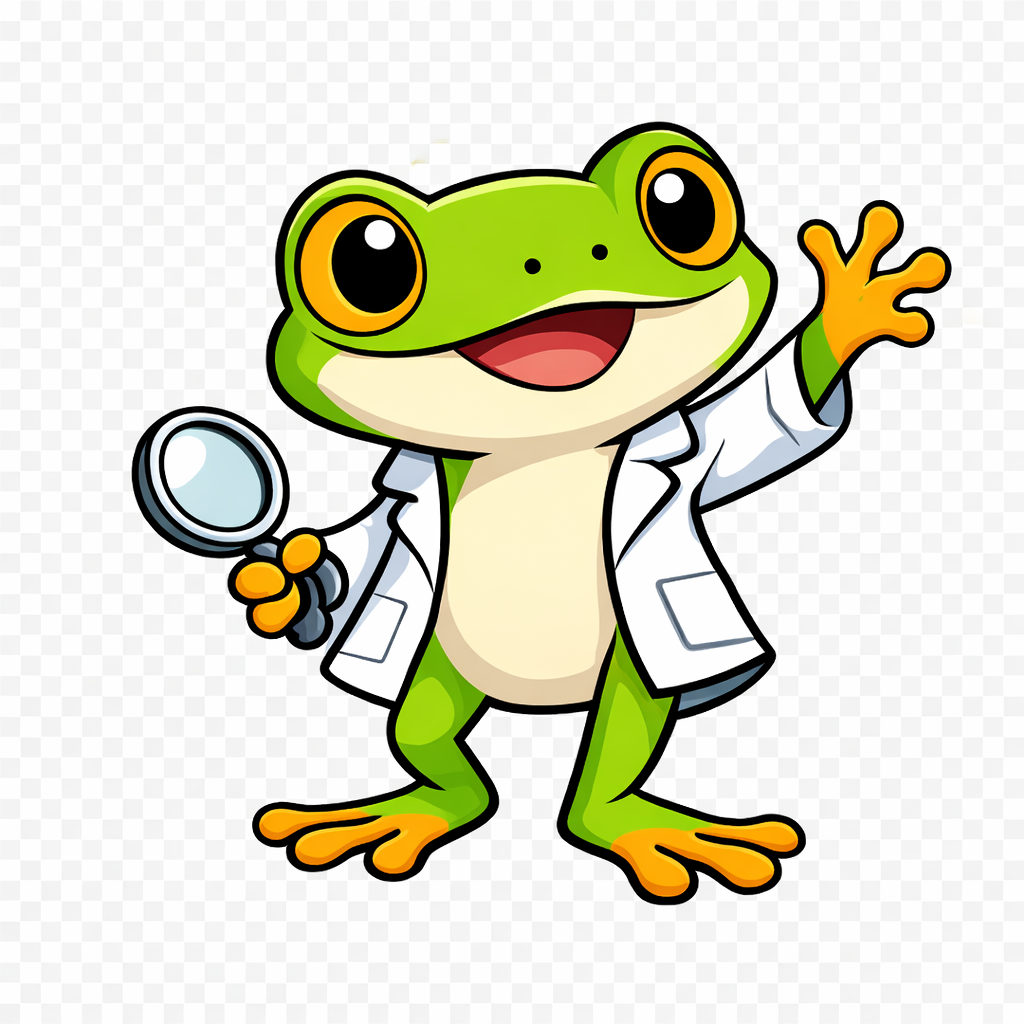
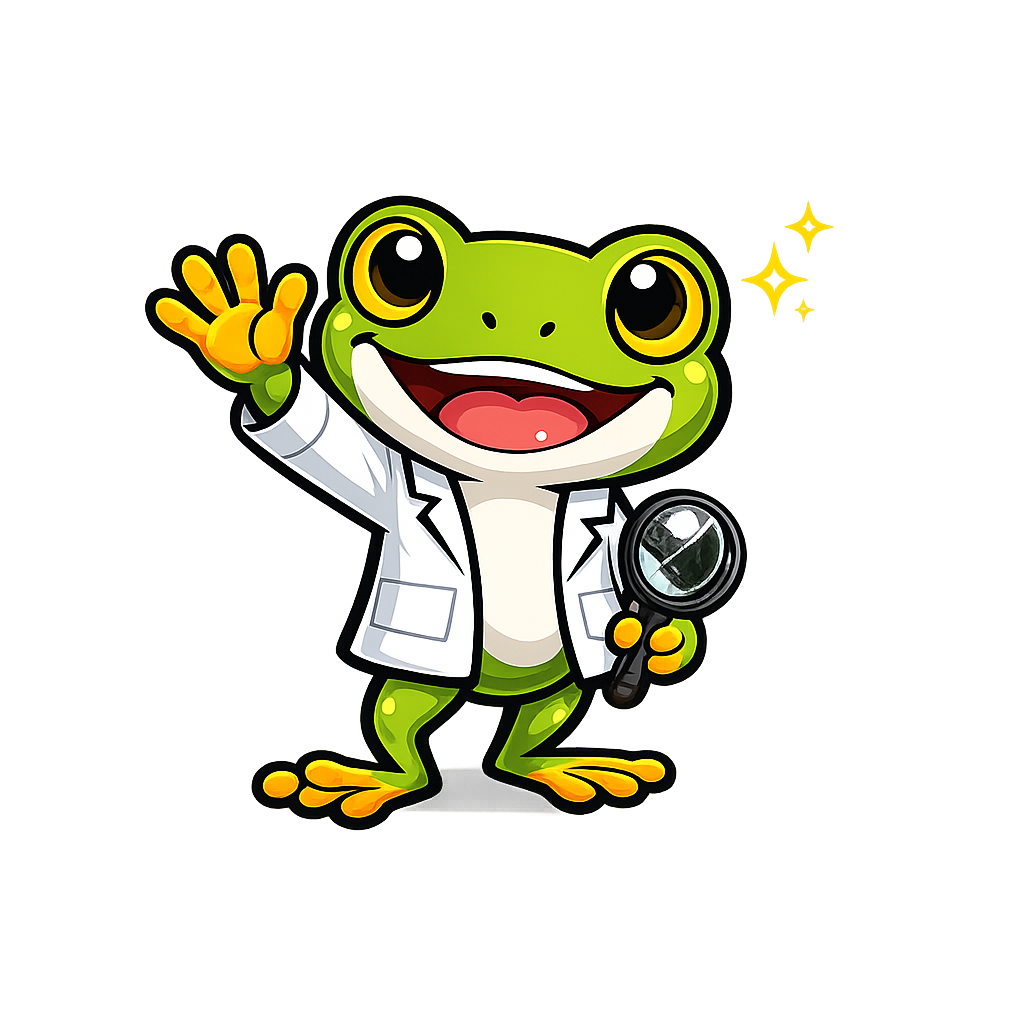
mascot image cleanup

diff --git a/docs/css/mascot.css b/docs/css/mascot.css
@@ -8,7 +8,7 @@
   --mascot-secondary: #f57c00;   /* warm orange   */
   --mascot-bg:        #e8f5e9;   /* light green   */
   --mascot-border:    #43a047;   /* medium green  */
-  --mascot-size: 60px;
+  --mascot-size: 90px;
 }
 
 /* ---- Shared base for all mascot admonitions ---- */
@@ -18,12 +18,14 @@
 .md-typeset .admonition.mascot-warning,
 .md-typeset .admonition.mascot-celebration,
 .md-typeset .admonition.mascot-encourage,
+.md-typeset .admonition.mascot-neutral,
 .md-typeset details.mascot-welcome,
 .md-typeset details.mascot-thinking,
 .md-typeset details.mascot-tip,
 .md-typeset details.mascot-warning,
 .md-typeset details.mascot-celebration,
-.md-typeset details.mascot-encourage {
+.md-typeset details.mascot-encourage,
+.md-typeset details.mascot-neutral {
   font-size: 0.95rem;
 }
 
@@ -38,16 +40,6 @@
   background-color: var(--mascot-primary);
   color: white;
 }
-.md-typeset .mascot-welcome > .admonition-title::before,
-.md-typeset .mascot-welcome > summary::before {
-  content: "";
-  background: url('../img/mascot/welcome.png') center/contain no-repeat;
-  width: 1.2em;
-  height: 1.2em;
-  display: inline-block;
-  vertical-align: middle;
-  margin-right: 0.4em;
-}
 
 /* ---- Thinking (key concepts) — warm orange ---- */
 .md-typeset .admonition.mascot-thinking,
@@ -59,16 +51,6 @@
 .md-typeset .mascot-thinking > summary {
   background-color: var(--mascot-secondary);
   color: white;
-}
-.md-typeset .mascot-thinking > .admonition-title::before,
-.md-typeset .mascot-thinking > summary::before {
-  content: "";
-  background: url('../img/mascot/thinking.png') center/contain no-repeat;
-  width: 1.2em;
-  height: 1.2em;
-  display: inline-block;
-  vertical-align: middle;
-  margin-right: 0.4em;
 }
 
 /* ---- Tip (hints) — teal ---- */
@@ -82,16 +64,6 @@
   background-color: #00897b;
   color: white;
 }
-.md-typeset .mascot-tip > .admonition-title::before,
-.md-typeset .mascot-tip > summary::before {
-  content: "";
-  background: url('../img/mascot/tip.png') center/contain no-repeat;
-  width: 1.2em;
-  height: 1.2em;
-  display: inline-block;
-  vertical-align: middle;
-  margin-right: 0.4em;
-}
 
 /* ---- Warning (common mistakes) — red ---- */
 .md-typeset .admonition.mascot-warning,
@@ -103,16 +75,6 @@
 .md-typeset .mascot-warning > summary {
   background-color: #c62828;
   color: white;
-}
-.md-typeset .mascot-warning > .admonition-title::before,
-.md-typeset .mascot-warning > summary::before {
-  content: "";
-  background: url('../img/mascot/warning.png') center/contain no-repeat;
-  width: 1.2em;
-  height: 1.2em;
-  display: inline-block;
-  vertical-align: middle;
-  margin-right: 0.4em;
 }
 
 /* ---- Celebration (achievements) — purple ---- */
@@ -126,16 +88,6 @@
   background-color: #6a1b9a;
   color: white;
 }
-.md-typeset .mascot-celebration > .admonition-title::before,
-.md-typeset .mascot-celebration > summary::before {
-  content: "";
-  background: url('../img/mascot/celebration.png') center/contain no-repeat;
-  width: 1.2em;
-  height: 1.2em;
-  display: inline-block;
-  vertical-align: middle;
-  margin-right: 0.4em;
-}
 
 /* ---- Encourage (difficult content) — blue ---- */
 .md-typeset .admonition.mascot-encourage,
@@ -147,16 +99,6 @@
 .md-typeset .mascot-encourage > summary {
   background-color: #0277bd;
   color: white;
-}
-.md-typeset .mascot-encourage > .admonition-title::before,
-.md-typeset .mascot-encourage > summary::before {
-  content: "";
-  background: url('../img/mascot/encouraging.png') center/contain no-repeat;
-  width: 1.2em;
-  height: 1.2em;
-  display: inline-block;
-  vertical-align: middle;
-  margin-right: 0.4em;
 }
 
 /* ---- Neutral (general purpose) — slate gray ---- */
@@ -170,22 +112,23 @@
   background-color: #546e7a;
   color: white;
 }
-.md-typeset .mascot-neutral > .admonition-title::before,
-.md-typeset .mascot-neutral > summary::before {
-  content: "";
-  background: url('../img/mascot/neutral.png') center/contain no-repeat;
-  width: 1.2em;
-  height: 1.2em;
-  display: inline-block;
-  vertical-align: middle;
-  margin-right: 0.4em;
+
+/* ---- Title: left-align text, remove default MkDocs icon completely ---- */
+.md-typeset [class*="mascot-"] > .admonition-title,
+.md-typeset [class*="mascot-"] > summary {
+  text-align: left;
+  padding-left: 0.8rem;
+}
+.md-typeset [class*="mascot-"] > .admonition-title::before,
+.md-typeset [class*="mascot-"] > summary::before {
+  display: none;
 }
 
-/* ---- Larger inline mascot image inside admonition body ---- */
+/* ---- Mascot image floated LEFT of admonition body text ---- */
 .mascot-admonition-img {
-  float: right;
+  float: left;
   width: var(--mascot-size);
   height: var(--mascot-size);
-  margin: 0 0 0.5em 1em;
+  margin: 0 1em 0.5em 0;
   object-fit: contain;
 }

diff --git a/docs/learning-graph/mascot-test.md b/docs/learning-graph/mascot-test.md
@@ -1,0 +1,74 @@
+# Gregor the Tree Frog - Mascot Test
+
+This page shows all mascot images as well as the admonition styles for reference. Check that all the images have a transparent background
+and do not have excessive padding around the drawing.
+Note that the images have a dashed blue border around them so you can clearly see the padding.
+
+<style type="text/css">
+  img {
+    border: 1px dashed blue;
+  }
+</style>
+
+## Image Tests
+
+<div class="grid cards" markdown>
+1. Welcome
+![](../img/mascot/welcome.png){ width="150px"}
+2. Thinking
+![](../img/mascot/thinking.png){ width="150px"}
+3. Tip
+![](../img/mascot/tip.png){ width="150px"}
+4. Warning
+![](../img/mascot/warning.png){ width="150px"}
+5. Encouraging
+![](../img/mascot/encouraging.png){ width="150px"}
+6. Celebration
+![](../img/mascot/celebration.png){ width="150px"}
+7. Neutral
+![](../img/mascot/neutral.png){ width="150px"}
+</div>
+
+## Admonition Tests
+
+!!! mascot-welcome "Gregor Welcomes You!"
+    <img src="../../img/mascot/welcome.png" class="mascot-admonition-img" alt="Gregor welcomes you">
+    Welcome, investigators! I'm Gregor the Tree Frog, your guide through
+    the living world of AP Biology. From the chemistry inside a cell to
+    the dynamics of entire ecosystems — Let's investigate!
+
+!!! mascot-thinking "Key Insight"
+    <img src="../../img/mascot/thinking.png" class="mascot-admonition-img" alt="Gregor is thinking">
+    Notice that every major biological process — from photosynthesis
+    to protein synthesis — depends on the same fundamental chemistry
+    you learned in Unit 1. Biology is deeply connected.
+
+!!! mascot-tip "Gregor's Tip"
+    <img src="../../img/mascot/tip.png" class="mascot-admonition-img" alt="Gregor shares a tip">
+    When you see a question about enzyme inhibition on the AP exam,
+    always ask: *Does the inhibitor bind the active site or somewhere else?*
+    That single question tells you whether it's competitive or noncompetitive.
+
+!!! mascot-warning "Common Mistake"
+    <img src="../../img/mascot/warning.png" class="mascot-admonition-img" alt="Gregor warns you">
+    Don't confuse *genotype* and *phenotype*. The genotype is the genetic
+    instruction set (DNA). The phenotype is the observable result. The same
+    phenotype can come from different genotypes — that's why test crosses exist!
+
+!!! mascot-encourage "You've Got This!"
+    <img src="../../img/mascot/encouraging.png" class="mascot-admonition-img" alt="Gregor encourages you">
+    Hardy-Weinberg equilibrium feels intimidating at first — but once you see
+    it as a *null hypothesis* for evolution, it all clicks. Stick with it.
+    You're closer than you think!
+
+!!! mascot-celebration "Excellent Work!"
+    <img src="../../img/mascot/celebration.png" class="mascot-admonition-img" alt="Gregor celebrates">
+    You've just worked through the entire central dogma — DNA replication,
+    transcription, and translation. That's the molecular blueprint of life.
+    Outstanding work, investigator!
+
+!!! mascot-neutral "A Note from Gregor"
+    <img src="../../img/mascot/neutral.png" class="mascot-admonition-img" alt="Gregor notes">
+    AP Biology covers a lot of ground — from atoms to ecosystems. Each unit
+    builds on the last, so if something feels shaky, it's worth going back
+    to reinforce it before moving forward.

diff --git a/docs/img/mascot/image-prompts.md b/docs/img/mascot/image-prompts.md
@@ -52,7 +52,7 @@ For chapter openings.
 ```
 Please use the description above and make a new Welcome pose.
 
-
+Generate a new png with a transparent background image of Gregor the frog giving a welcome.
 Gregor is waving one front leg cheerfully at the viewer with a big,
 warm smile. His other hand holds the magnifying glass at his side. The pose
 radiates "welcome, let's get started!" energy. He faces slightly toward the
@@ -127,7 +127,9 @@ tiny stars scatter around him. His eyes are squinted with joy.
 For difficult content and moments where students may feel frustrated.
 
 ```
-[BASE] Gregor gives a confident thumbs-up with one front leg while smiling
+Generate a new png image of Gregor the frog on a transparent background.
+This pose is for an encouraging gesture.
+Gregor gives a confident thumbs-up with one front leg while smiling
 warmly and reassuringly at the viewer. His posture is relaxed and supportive.
 The pose radiates "you can do it" and "I believe in you" energy.
 ```
